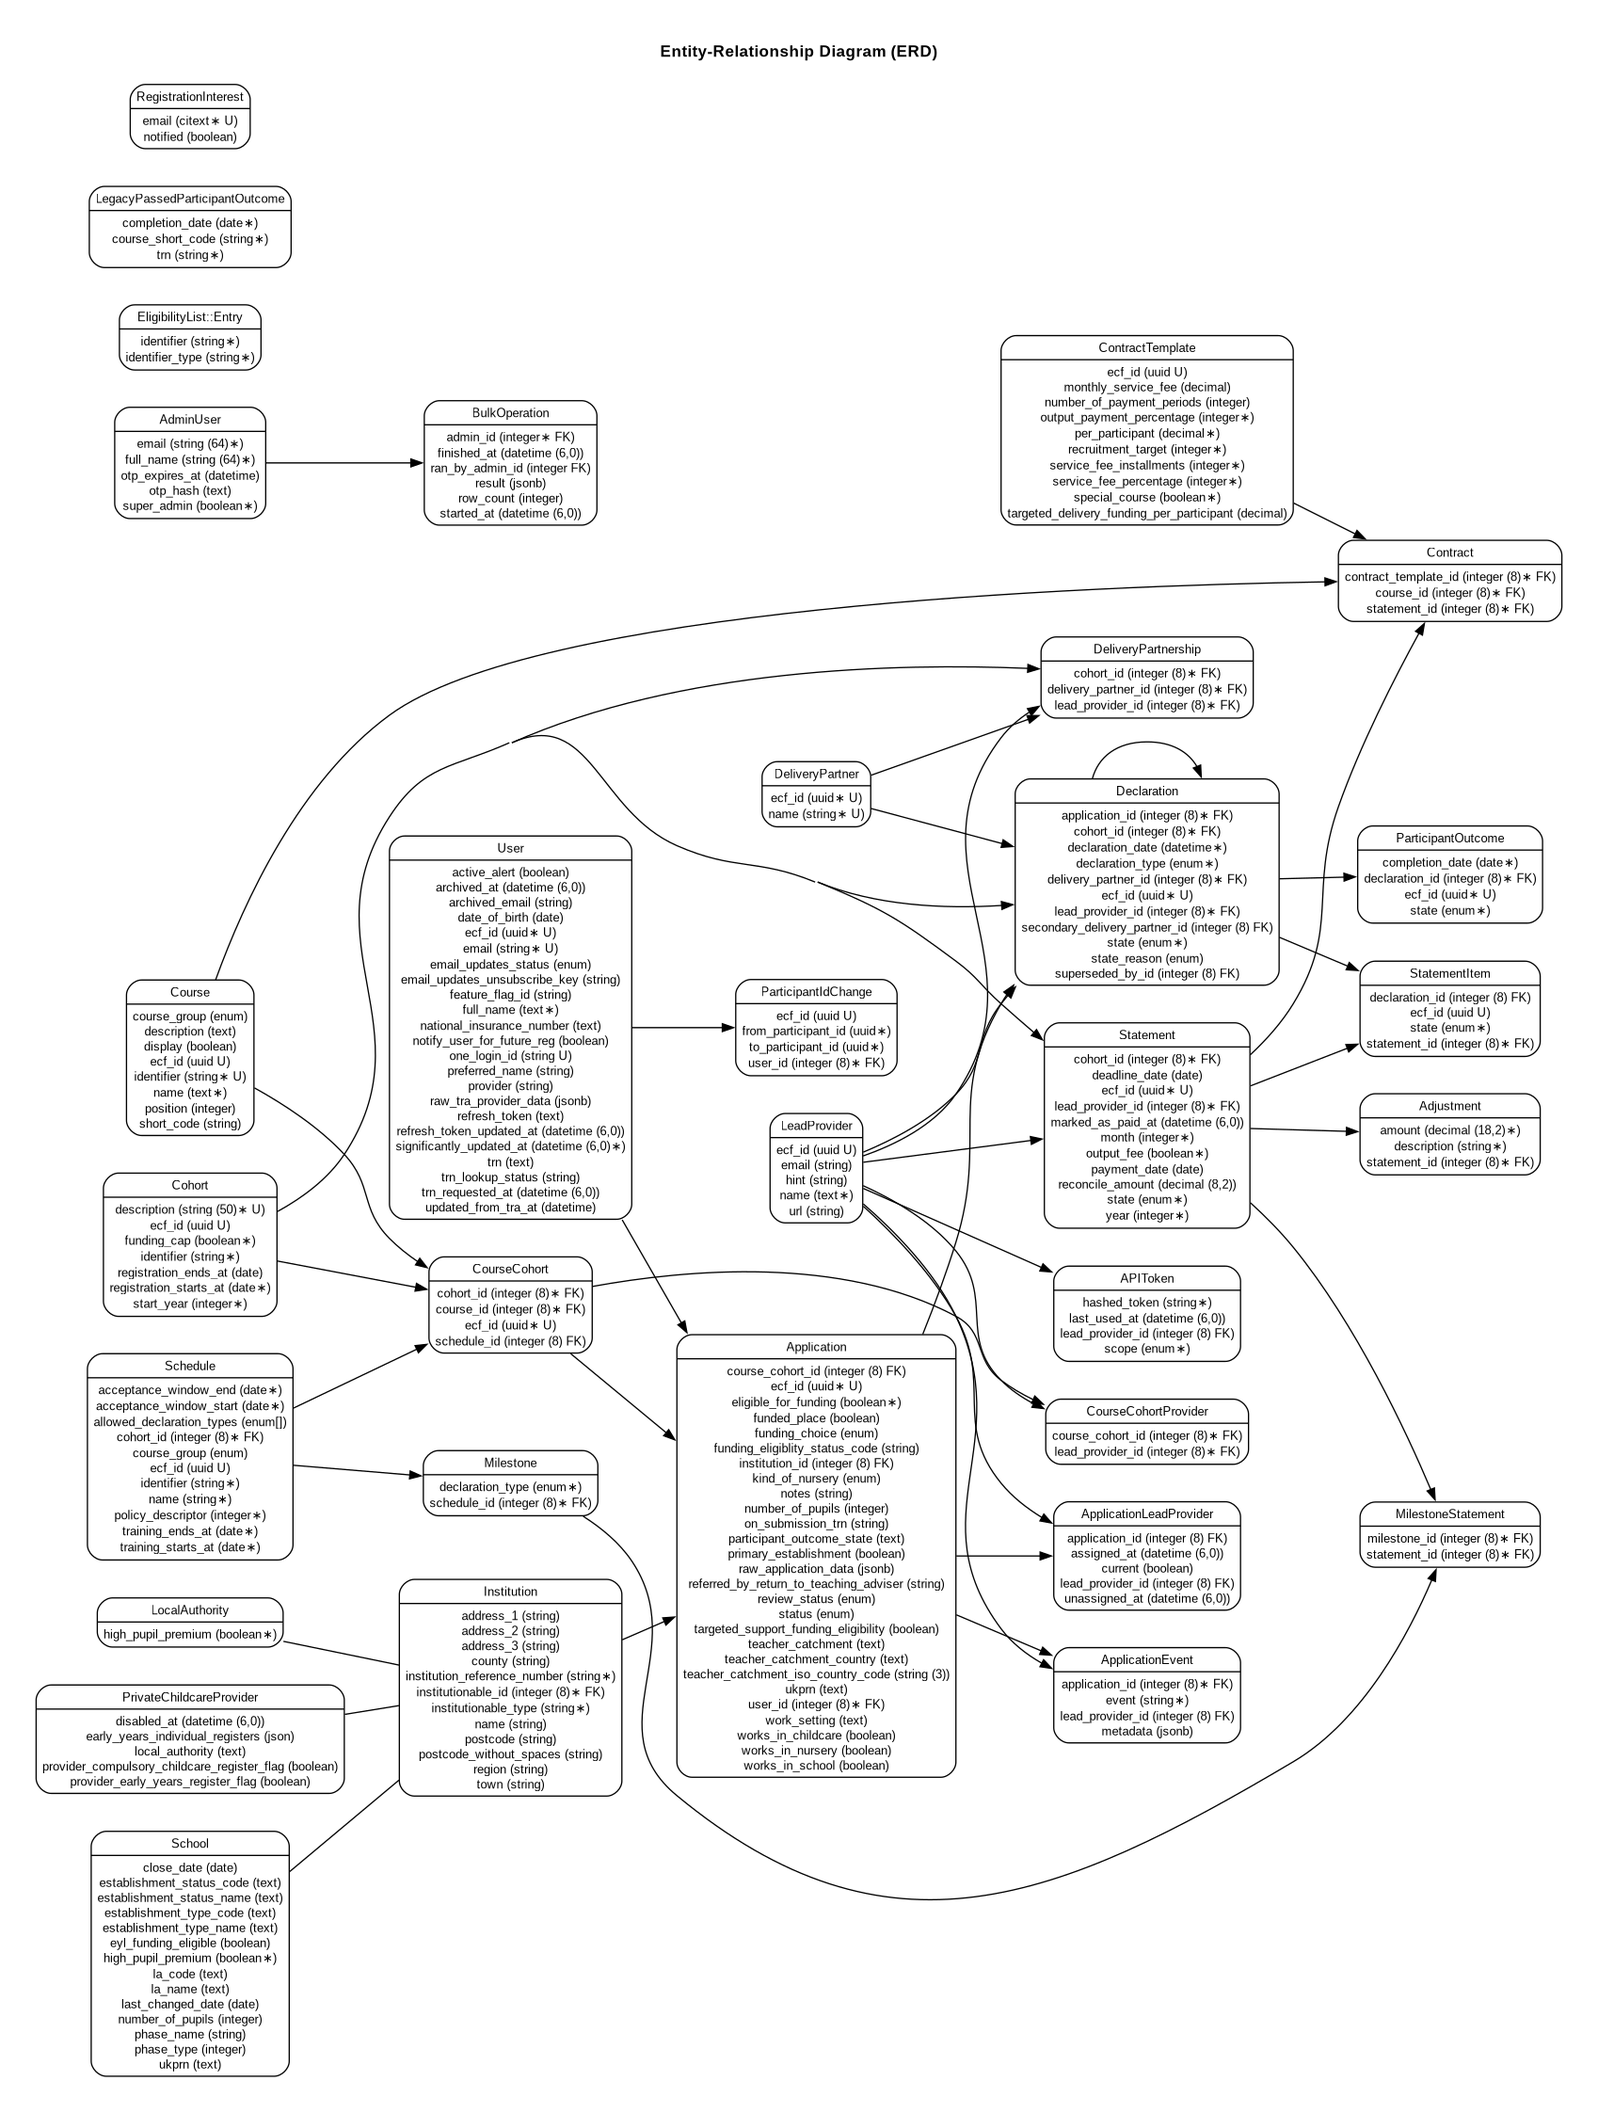
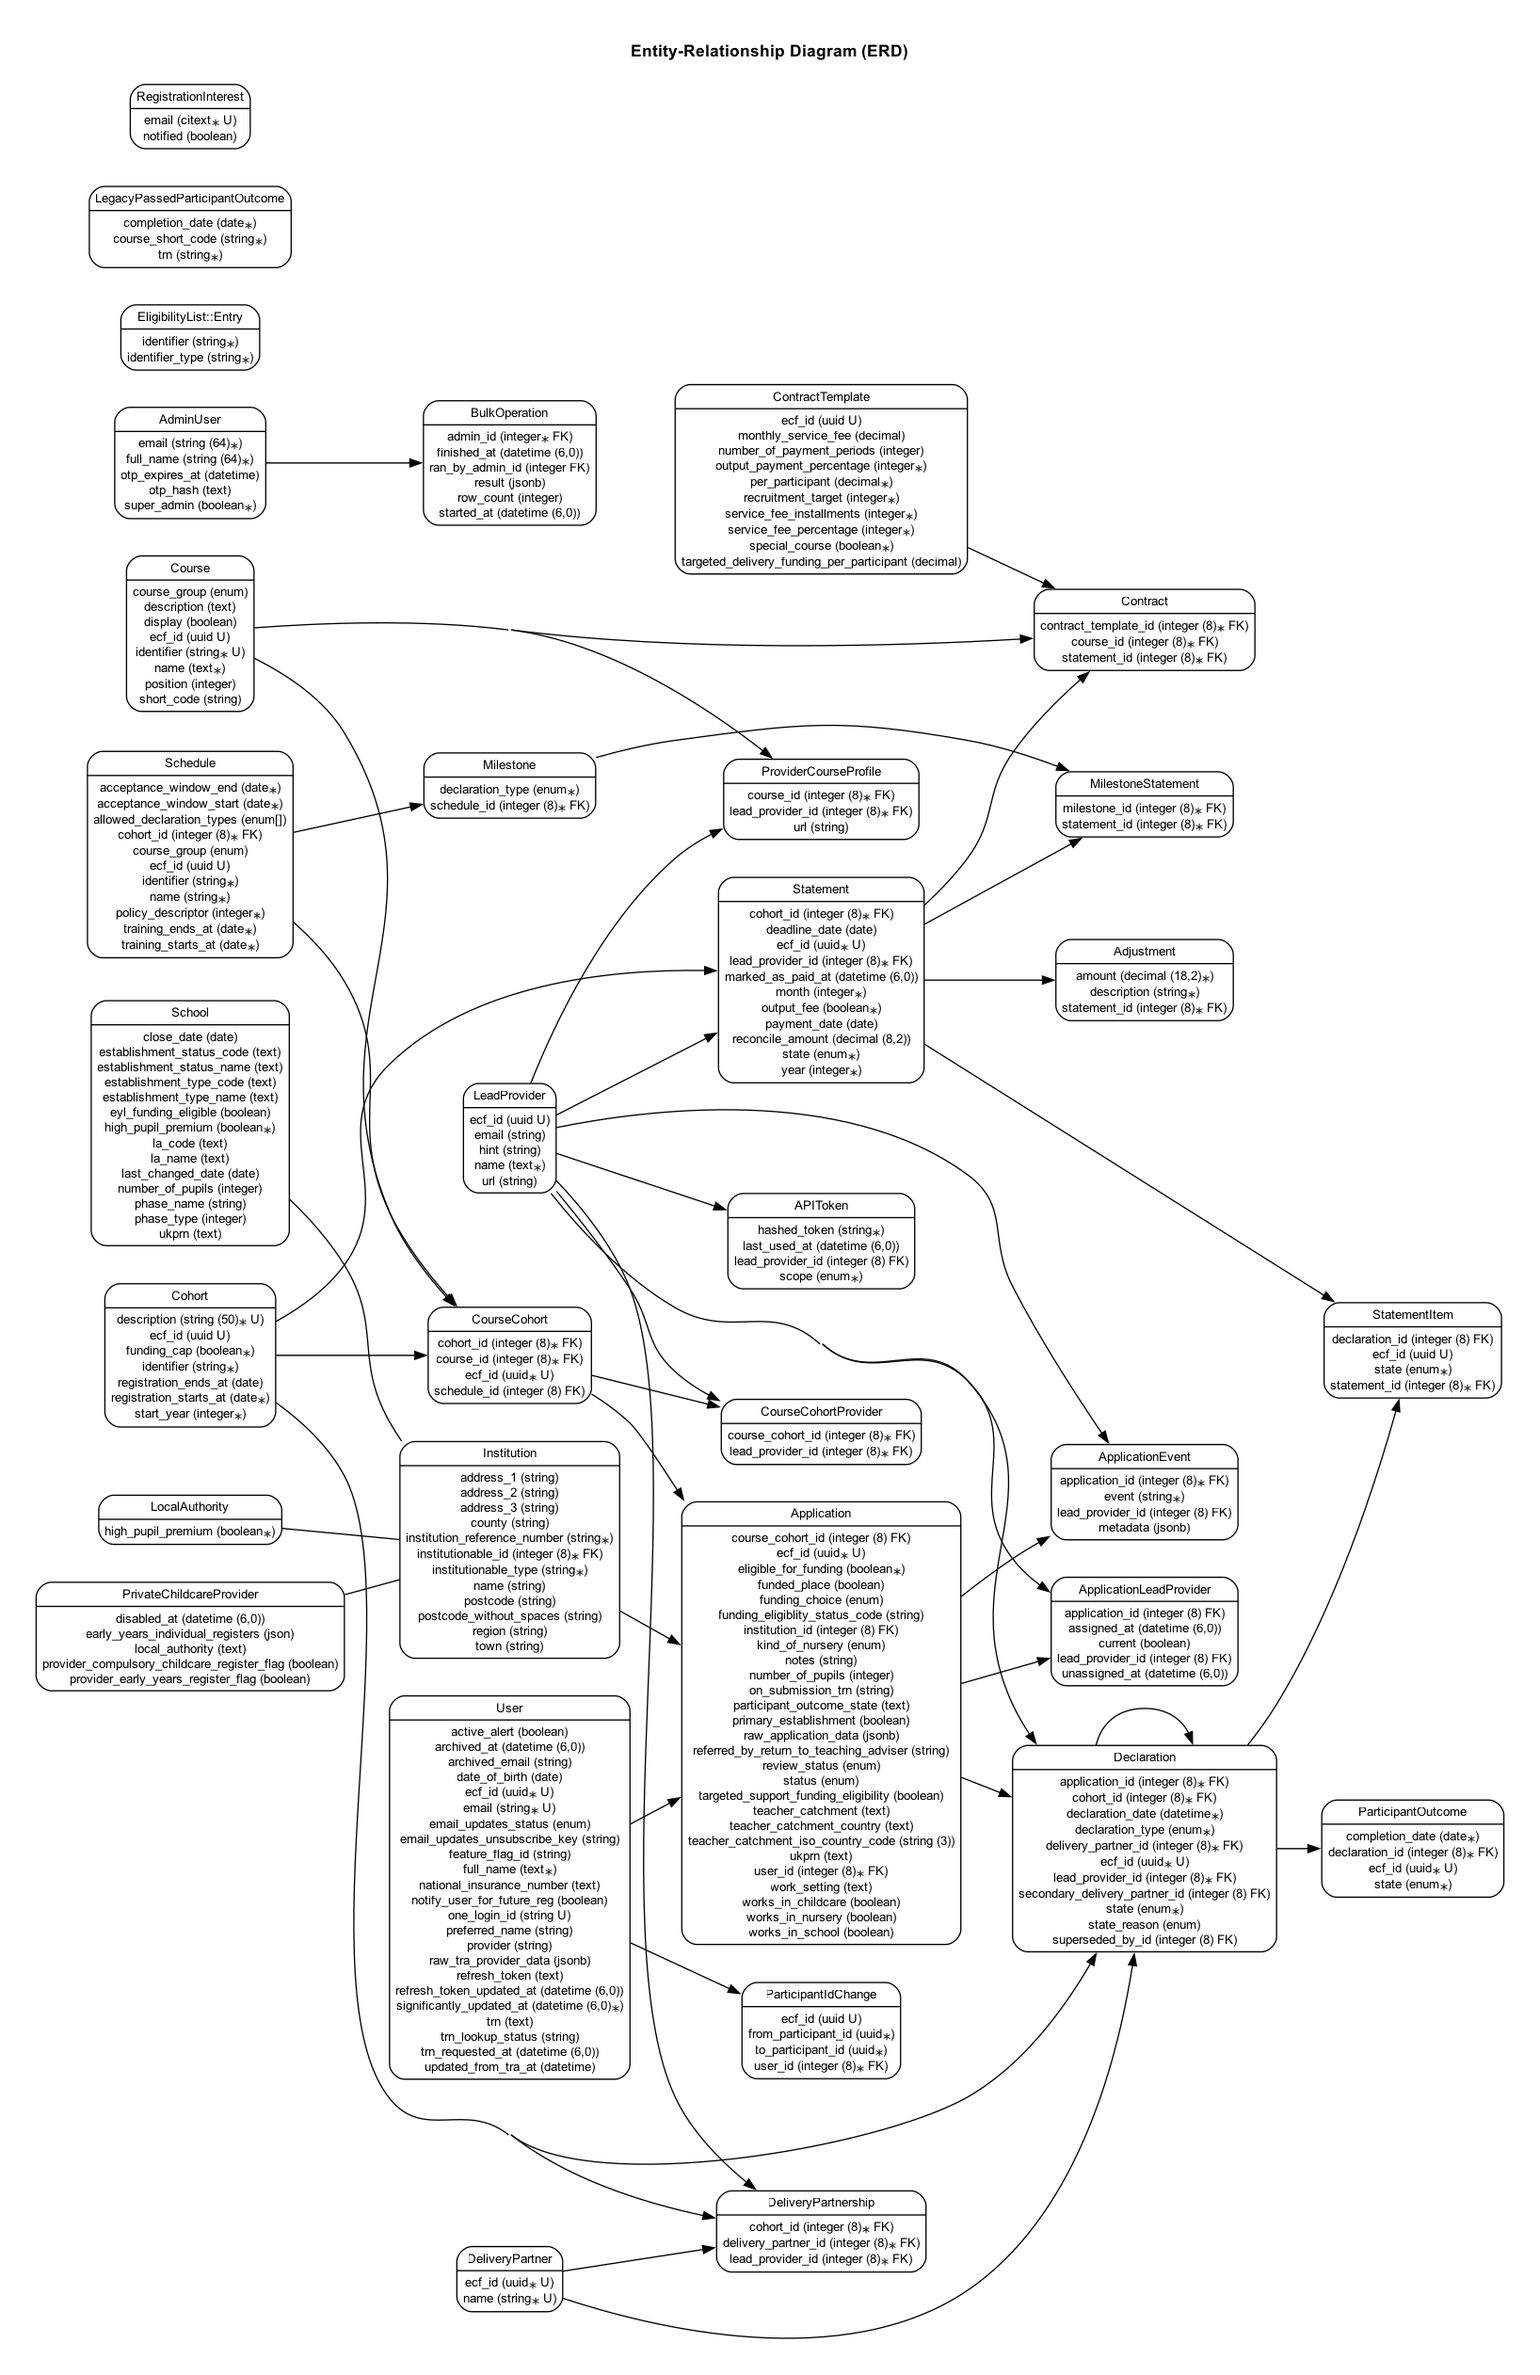
Provider course profiles

diff --git a/spec/features/admin/lead_providers_spec.rb b/spec/features/admin/lead_providers_spec.rb
@@ -23,7 +23,9 @@ RSpec.feature "Listing and viewing course providers", type: :feature do
     cohort_2024 = create(:cohort, registration_starts_at: Date.new(2024, 4, 1))
     cohort_2023 = create(:cohort, registration_starts_at: Date.new(2023, 4, 1))
     lead_provider = LeadProvider.order(:name).first
+    course = create(:course, display: true, lead_provider:)
     lead_provider.update!(url: "https://example.com/provider")
+    create(:provider_course_profile, course:, lead_provider:, url: "https://example.com/provider-course")
     delivery_partner_25 = create(:delivery_partner, lead_providers: { cohort_2025 => lead_provider })
     delivery_partner_24 = create(:delivery_partner, lead_providers: { cohort_2024 => lead_provider })
     delivery_partner_23 = create(:delivery_partner, lead_providers: { cohort_2023 => lead_provider })
@@ -34,6 +36,12 @@ RSpec.feature "Listing and viewing course providers", type: :feature do
     expect(page).to have_css(".govuk-heading-l", text: lead_provider.name)
     expect(page).to have_text(lead_provider.email)
     expect(page).to have_text(lead_provider.url)
+
+    expect(page).to have_text("Provider course profiles")
+    expect(page).to have_text(course.name)
+    expect(page).to have_text("https://example.com/provider-course")
+
+    visit(admin_lead_provider_path(lead_provider))
 
     find("#tab_delivery-partners").click
     expect(page).to have_table(with_rows: [{ "Delivery partner" => delivery_partner_25.name }])
@@ -67,6 +75,25 @@ RSpec.feature "Listing and viewing course providers", type: :feature do
     expect(lead_provider.email).to eq("updated-provider@example.com")
     expect(lead_provider.url).to eq("https://example.com/provider")
     expect(lead_provider.hint).to eq("Updated hint text")
+  end
+
+  scenario "editing provider course profile" do
+    lead_provider = LeadProvider.order(:name).first
+    course = create(:course, display: true, lead_provider:)
+
+    visit(admin_lead_provider_path(lead_provider))
+    within("tr", text: course.name) do
+      click_on("Edit")
+    end
+
+    fill_in("Website URL", with: "https://example.com/course-specific-provider")
+    click_on("Save profile")
+
+    expect(page).to have_text("Provider course profile updated")
+    expect(page).to have_text("https://example.com/course-specific-provider")
+
+    config = ProviderCourseProfile.find_by!(course:, lead_provider:)
+    expect(config.url).to eq("https://example.com/course-specific-provider")
   end
 
   scenario "editing course provider with invalid details" do

diff --git a/db/schema.rb b/db/schema.rb
@@ -10,7 +10,7 @@
 #
 # It's strongly recommended that you check this file into your version control system.
 
-ActiveRecord::Schema[8.1].define(version: 2026_06_10_105000) do
+ActiveRecord::Schema[8.1].define(version: 2026_06_25_113100) do
   # These are extensions that must be enabled in order to support this database
   enable_extension "btree_gin"
   enable_extension "citext"
@@ -470,6 +470,17 @@ ActiveRecord::Schema[8.1].define(version: 2026_06_10_105000) do
     t.datetime "updated_at", null: false
   end
 
+  create_table "provider_course_profiles", force: :cascade do |t|
+    t.bigint "course_id", null: false
+    t.datetime "created_at", null: false
+    t.bigint "lead_provider_id", null: false
+    t.datetime "updated_at", null: false
+    t.string "url"
+    t.index ["course_id", "lead_provider_id"], name: "idx_on_course_id_lead_provider_id_365a49107b", unique: true
+    t.index ["course_id"], name: "index_provider_course_profiles_on_course_id"
+    t.index ["lead_provider_id"], name: "index_provider_course_profiles_on_lead_provider_id"
+  end
+
   create_table "registration_interests", force: :cascade do |t|
     t.datetime "created_at", null: false
     t.citext "email", null: false
@@ -643,6 +654,8 @@ ActiveRecord::Schema[8.1].define(version: 2026_06_10_105000) do
   add_foreign_key "participant_id_changes", "users"
   add_foreign_key "participant_outcome_api_requests", "participant_outcomes"
   add_foreign_key "participant_outcomes", "declarations"
+  add_foreign_key "provider_course_profiles", "courses"
+  add_foreign_key "provider_course_profiles", "lead_providers"
   add_foreign_key "schedules", "cohorts"
   add_foreign_key "statement_items", "declarations"
   add_foreign_key "statement_items", "statements"

diff --git a/spec/models/lead_provider_spec.rb b/spec/models/lead_provider_spec.rb
@@ -58,4 +58,31 @@ RSpec.describe LeadProvider do
     it { is_expected.not_to include twenty_four_partner }
     it { is_expected.not_to include unrelated_partner }
   end
+
+  describe "#url_for_course" do
+    subject { lead_provider.url_for_course(course:) }
+
+    let(:course) { create(:course) }
+    let(:lead_provider) { create(:lead_provider, url: "https://example.com/provider") }
+
+    context "when the provider has a profile for the course" do
+      before do
+        create(:provider_course_profile, course:, lead_provider:, url: "https://example.com/course-provider")
+      end
+
+      it { is_expected.to eq("https://example.com/course-provider") }
+    end
+
+    context "when the provider profile URL is blank" do
+      before do
+        create(:provider_course_profile, course:, lead_provider:, url: "")
+      end
+
+      it { is_expected.to eq("https://example.com/provider") }
+    end
+
+    context "when the provider does not have a profile for the course" do
+      it { is_expected.to eq("https://example.com/provider") }
+    end
+  end
 end

diff --git a/app/controllers/admin/provider_course_profiles_controller.rb b/app/controllers/admin/provider_course_profiles_controller.rb
@@ -1,0 +1,38 @@
+module Admin
+  class ProviderCourseProfilesController < AdminController
+    before_action :lead_provider
+    before_action :course, only: %i[edit update]
+    before_action :provider_course_profile, only: %i[edit update]
+
+    def edit; end
+
+    def update
+      if @provider_course_profile.update(provider_course_profile_params)
+        redirect_to admin_lead_provider_path(@lead_provider), flash: { success: "Provider course profile updated" }
+      else
+        render :edit, status: :unprocessable_content
+      end
+    end
+
+  private
+
+    def lead_provider
+      @lead_provider ||= LeadProvider.find(params[:lead_provider_id])
+    end
+
+    def course
+      @course ||= Course.find(params[:course_id])
+    end
+
+    def provider_course_profile
+      @provider_course_profile ||= ProviderCourseProfile.find_or_initialize_by(
+        lead_provider:,
+        course:,
+      )
+    end
+
+    def provider_course_profile_params
+      params.require(:provider_course_profile).permit(:url)
+    end
+  end
+end

diff --git a/app/models/lead_provider.rb b/app/models/lead_provider.rb
@@ -1,8 +1,9 @@
 class LeadProvider < ApplicationRecord
   has_many :statements
+  has_many :provider_course_profiles, dependent: :destroy
   has_many :course_cohort_providers
   has_many :course_cohorts, through: :course_cohort_providers
-  has_many :courses, through: :course_cohorts
+  has_many :courses, -> { distinct }, through: :course_cohorts
   has_many :delivery_partnerships
   has_many :delivery_partners, -> { distinct }, through: :delivery_partnerships
   has_many :application_lead_providers
@@ -23,5 +24,14 @@ class LeadProvider < ApplicationRecord
 
   def delivery_partners_for_cohort(cohort)
     delivery_partners.where(delivery_partnerships: { cohort: })
+  end
+
+  def provider_course_profile_for(course:)
+    provider_course_profiles.find { |config| config.course_id == course.id } ||
+      provider_course_profiles.find_by(course:)
+  end
+
+  def url_for_course(course:)
+    provider_course_profile_for(course:)&.url.presence || url
   end
 end

diff --git a/spec/features/registration_start_spec.rb b/spec/features/registration_start_spec.rb
@@ -1,0 +1,16 @@
+require "rails_helper"
+
+RSpec.feature "Registration start page", type: :feature do
+  let(:lead_provider) { create(:lead_provider, url: "https://example.com/provider") }
+  let(:course) { create(:course, :npd_eirt, lead_provider:) }
+  let!(:provider_course_profile) { create(:provider_course_profile, course:, lead_provider:, url: "https://example.com/course-provider") }
+
+  before { create(:course_cohort_provider, course_cohort: CourseCohort.next_open_for(course:), lead_provider:) }
+
+  scenario "links providers to their course-specific URL" do
+    visit(root_path)
+
+    expect(page).to have_link(lead_provider.name, href: provider_course_profile.url)
+    expect(page).not_to have_link(lead_provider.name, href: lead_provider.url)
+  end
+end

diff --git a/db/migrate/20260625113100_create_provider_course_profiles.rb b/db/migrate/20260625113100_create_provider_course_profiles.rb
@@ -1,0 +1,15 @@
+class CreateProviderCourseProfiles < ActiveRecord::Migration[8.0]
+  def change
+    create_table :provider_course_profiles do |t|
+      t.references :course, null: false, foreign_key: true
+      t.references :lead_provider, null: false, foreign_key: true
+      t.string :url
+
+      t.timestamps
+    end
+
+    add_index :provider_course_profiles,
+              %i[course_id lead_provider_id],
+              unique: true
+  end
+end

diff --git a/app/models/course.rb b/app/models/course.rb
@@ -7,6 +7,7 @@ class Course < ApplicationRecord
   has_many :course_cohorts, dependent: :destroy
   has_many :course_cohort_providers, through: :course_cohorts
   has_many :cohorts, through: :course_cohorts
+  has_many :provider_course_profiles, dependent: :destroy
   has_many :lead_providers, through: :course_cohort_providers
   has_many :schedules, through: :course_cohorts
   has_many :applications, through: :course_cohorts

diff --git a/config/routes/admin.rb b/config/routes/admin.rb
@@ -159,6 +159,10 @@ namespace :admin do
 
   resources :lead_providers, only: %i[index show edit update], path: "providers" do
     concerns :cohortable, index: "lead_providers#index", show: "lead_providers#show"
+    resources :provider_course_profiles,
+              only: %i[edit update],
+              param: :course_id,
+              path: "provider-course-profiles"
   end
   resources :admins, only: %i[index]
 

diff --git a/app/controllers/admin/lead_providers_controller.rb b/app/controllers/admin/lead_providers_controller.rb
@@ -7,7 +7,7 @@ module Admin
     end
 
     def show
-      @lead_provider = LeadProvider.find(params[:id])
+      @lead_provider = LeadProvider.includes(:provider_course_profiles).find(params[:id])
 
       # Added extra includes :course, :cohort to stop bogus warning issues;
       applications_scope = @lead_provider.applications

diff --git a/spec/models/provider_course_profile_spec.rb b/spec/models/provider_course_profile_spec.rb
@@ -1,0 +1,9 @@
+require "rails_helper"
+
+RSpec.describe ProviderCourseProfile, type: :model do
+  subject { build(:provider_course_profile) }
+
+  it { is_expected.to belong_to(:course) }
+  it { is_expected.to belong_to(:lead_provider) }
+  it { is_expected.to validate_uniqueness_of(:course_id).scoped_to(:lead_provider_id) }
+end

diff --git a/app/models/provider_course_profile.rb b/app/models/provider_course_profile.rb
@@ -1,0 +1,6 @@
+class ProviderCourseProfile < ApplicationRecord
+  belongs_to :course
+  belongs_to :lead_provider
+
+  validates :course_id, uniqueness: { scope: :lead_provider_id }
+end
